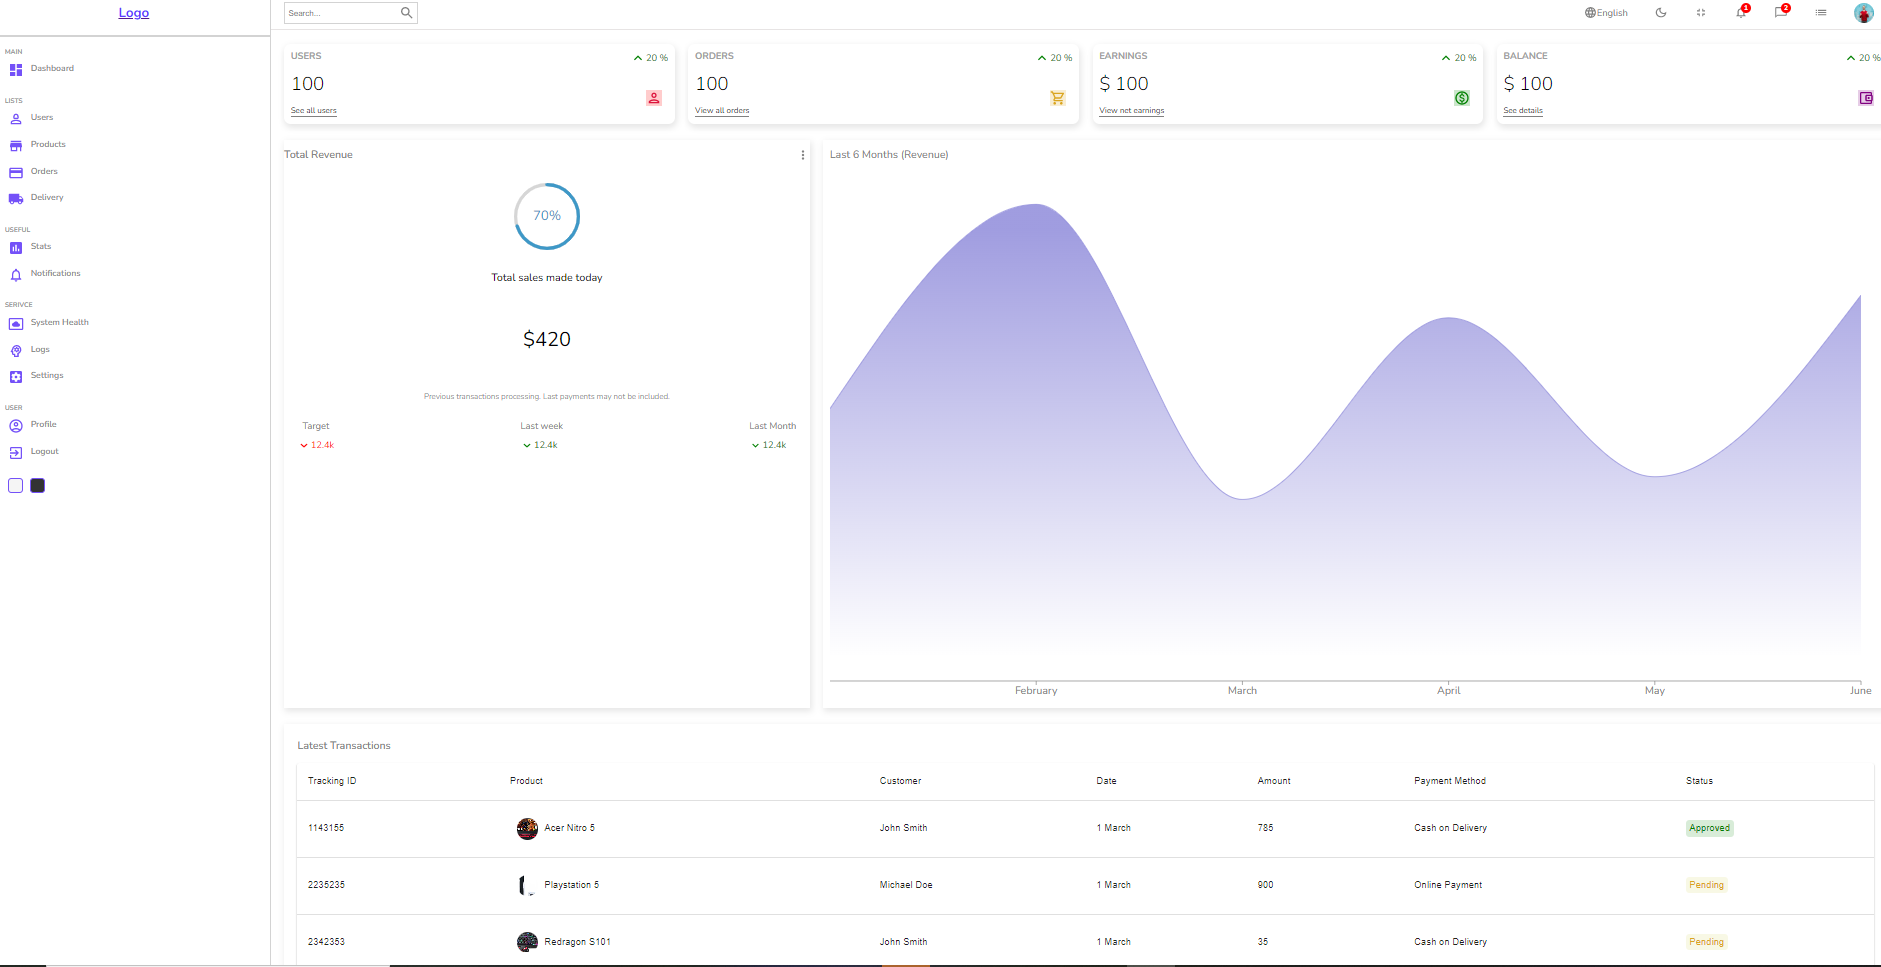
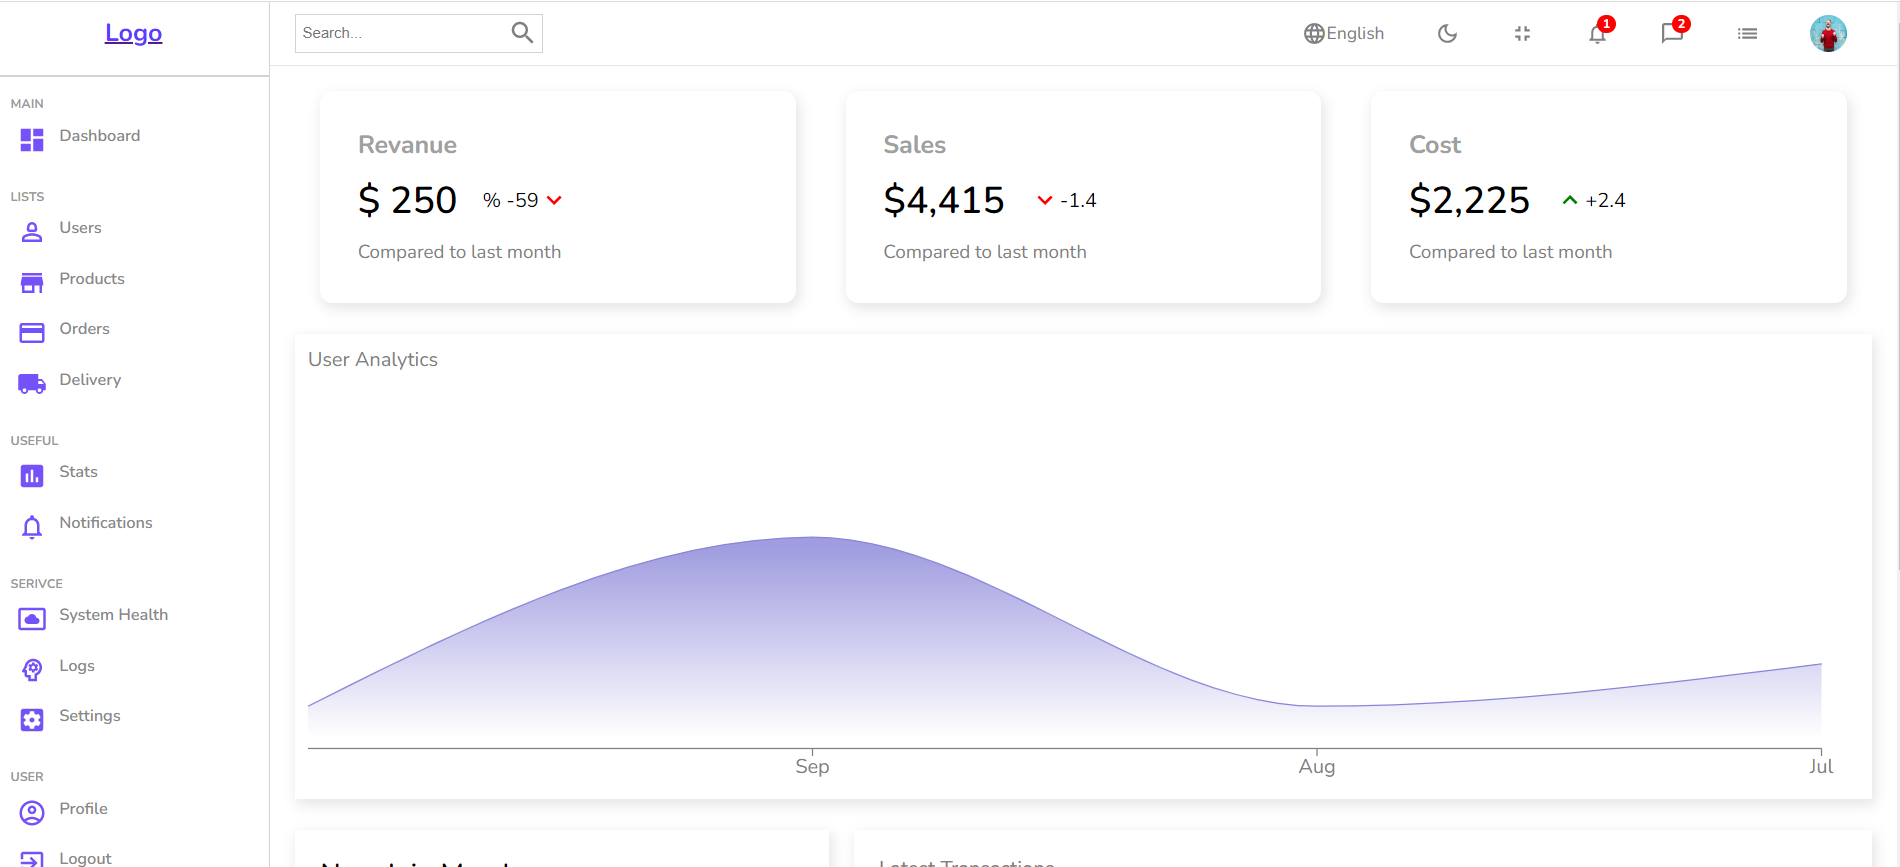
added images, updated readme

diff --git a/README.md b/README.md
@@ -1,7 +1,12 @@
-# React Admin Dashboard
+# React Shop Admin Dashboard
 
 React Admin Dashboard. Home page has different widgets, progress bar, interactive chart and a table. The app has different pages with data tables for users, products, signle user and signle product. You can select, view, delete, sort and filter items in theses tables. You can view a signle item in table by clicking on view button.
 
+You can see the website [here](https://react-shop-admin2.herokuapp.com/)
+
+This one part of the full solution.  The backend API is build with Node.js, Express.js and MongoDB You can see it here [here](https://github.com/adarraji/node-shop-api)
+
+Also you can find the React eCommerce Web application [here](https://react-shop3.netlify.app/)
 
 To run the application
 
@@ -42,3 +47,19 @@ Add server url in  `src/requestMethods.js`
 
 
 ## Screenshots
+<br />
+
+Home Page
+
+<br />
+
+![Image 1](./images/image-01.png)
+<br />
+
+![Image 2](./images/image-02.png)
+
+<br />
+<br />
+
+<br />
+
